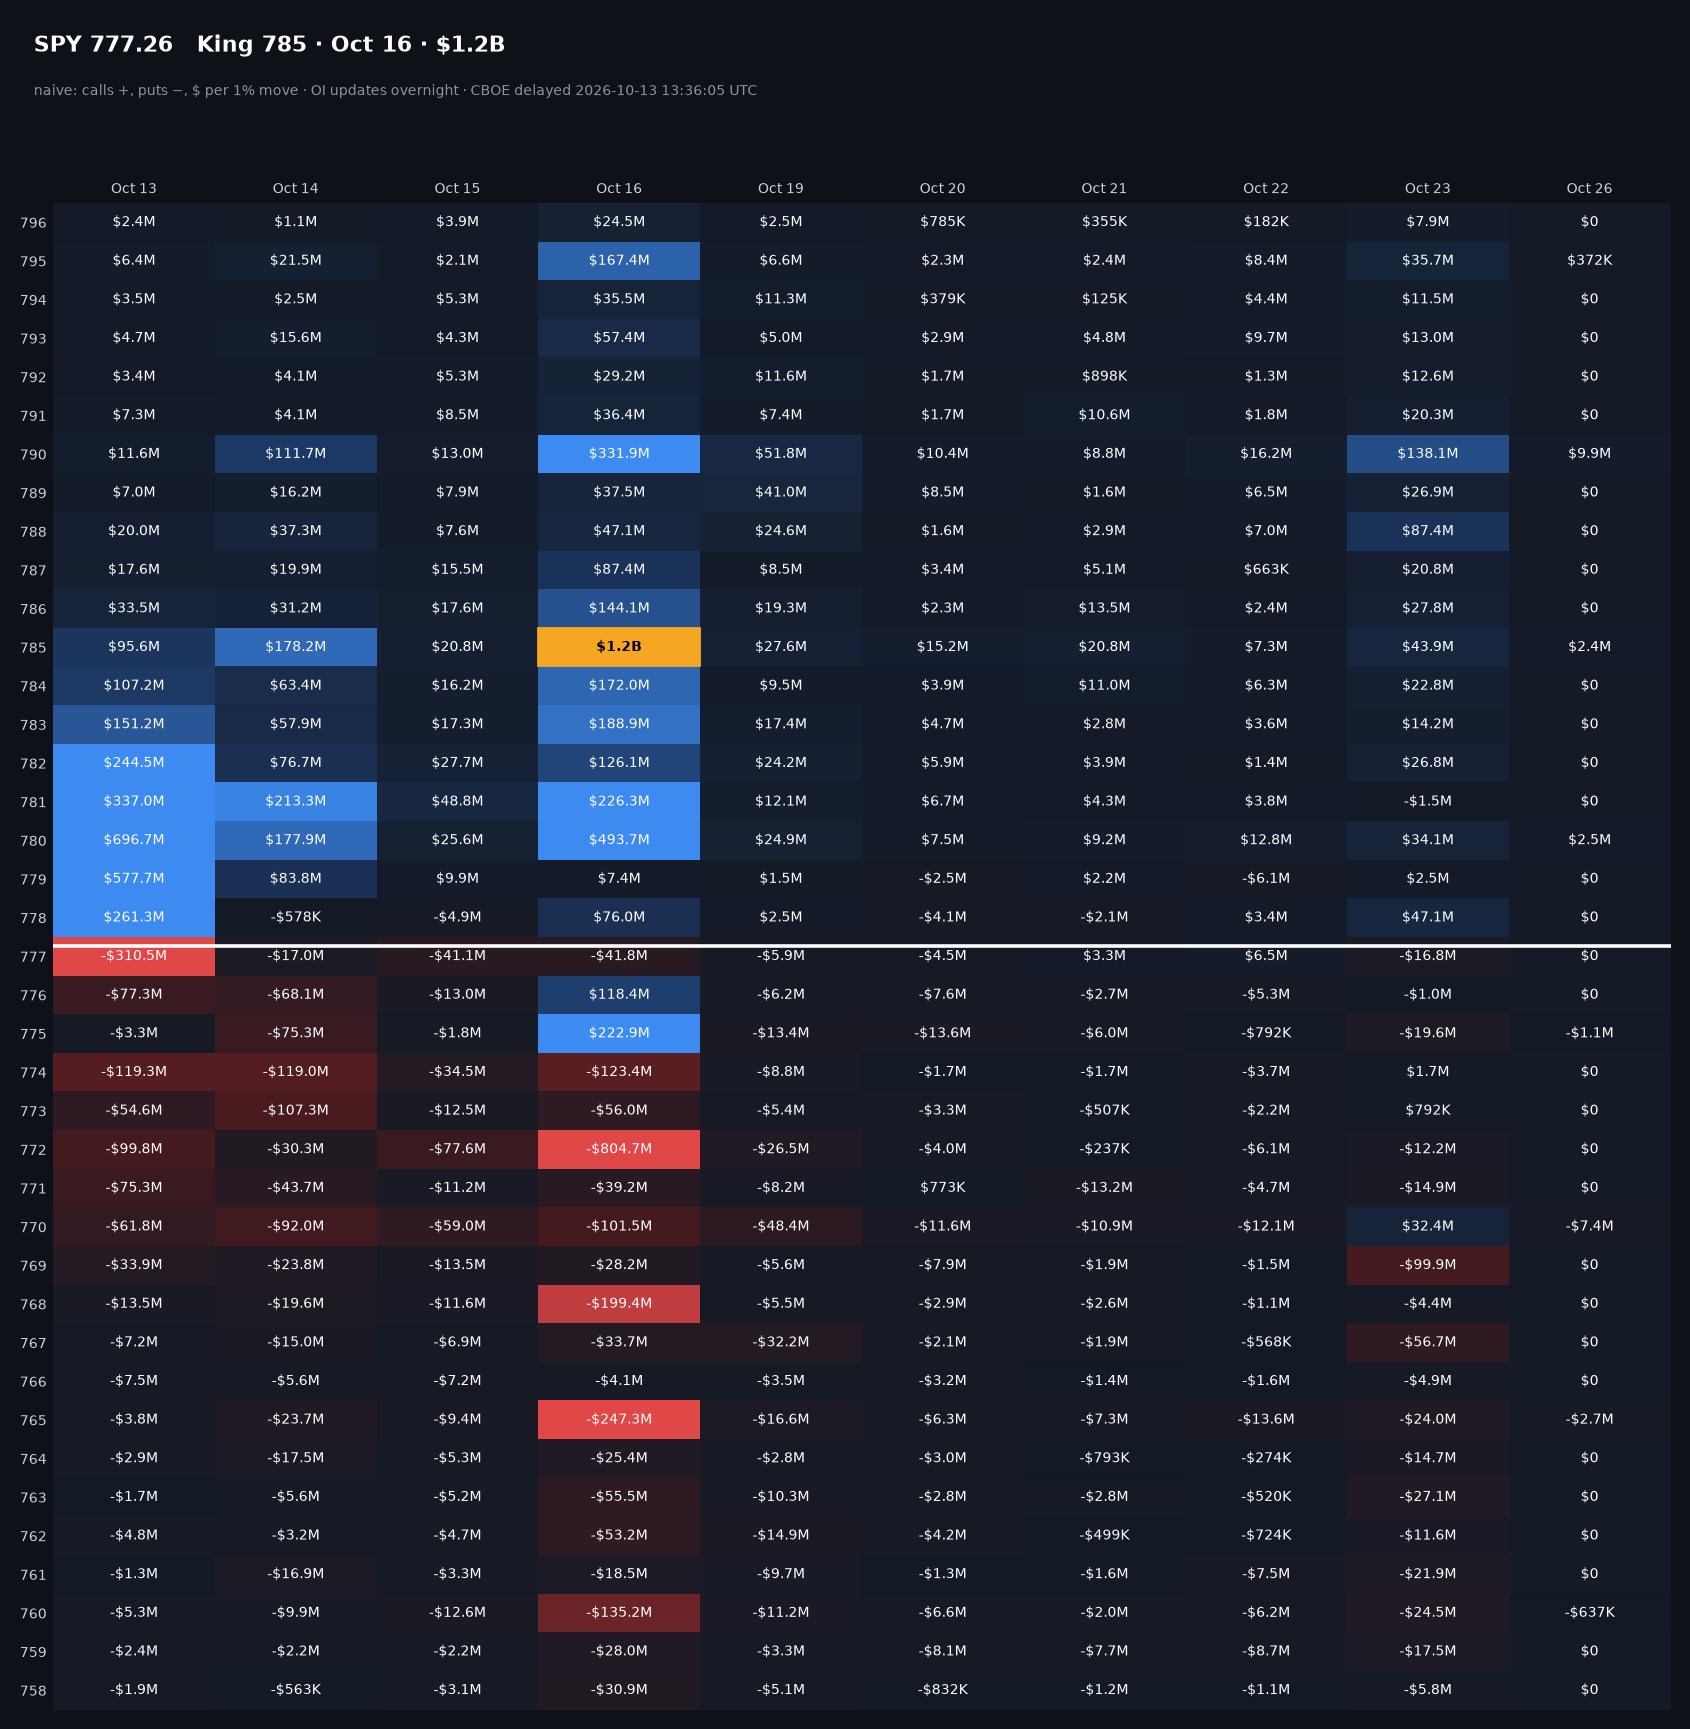
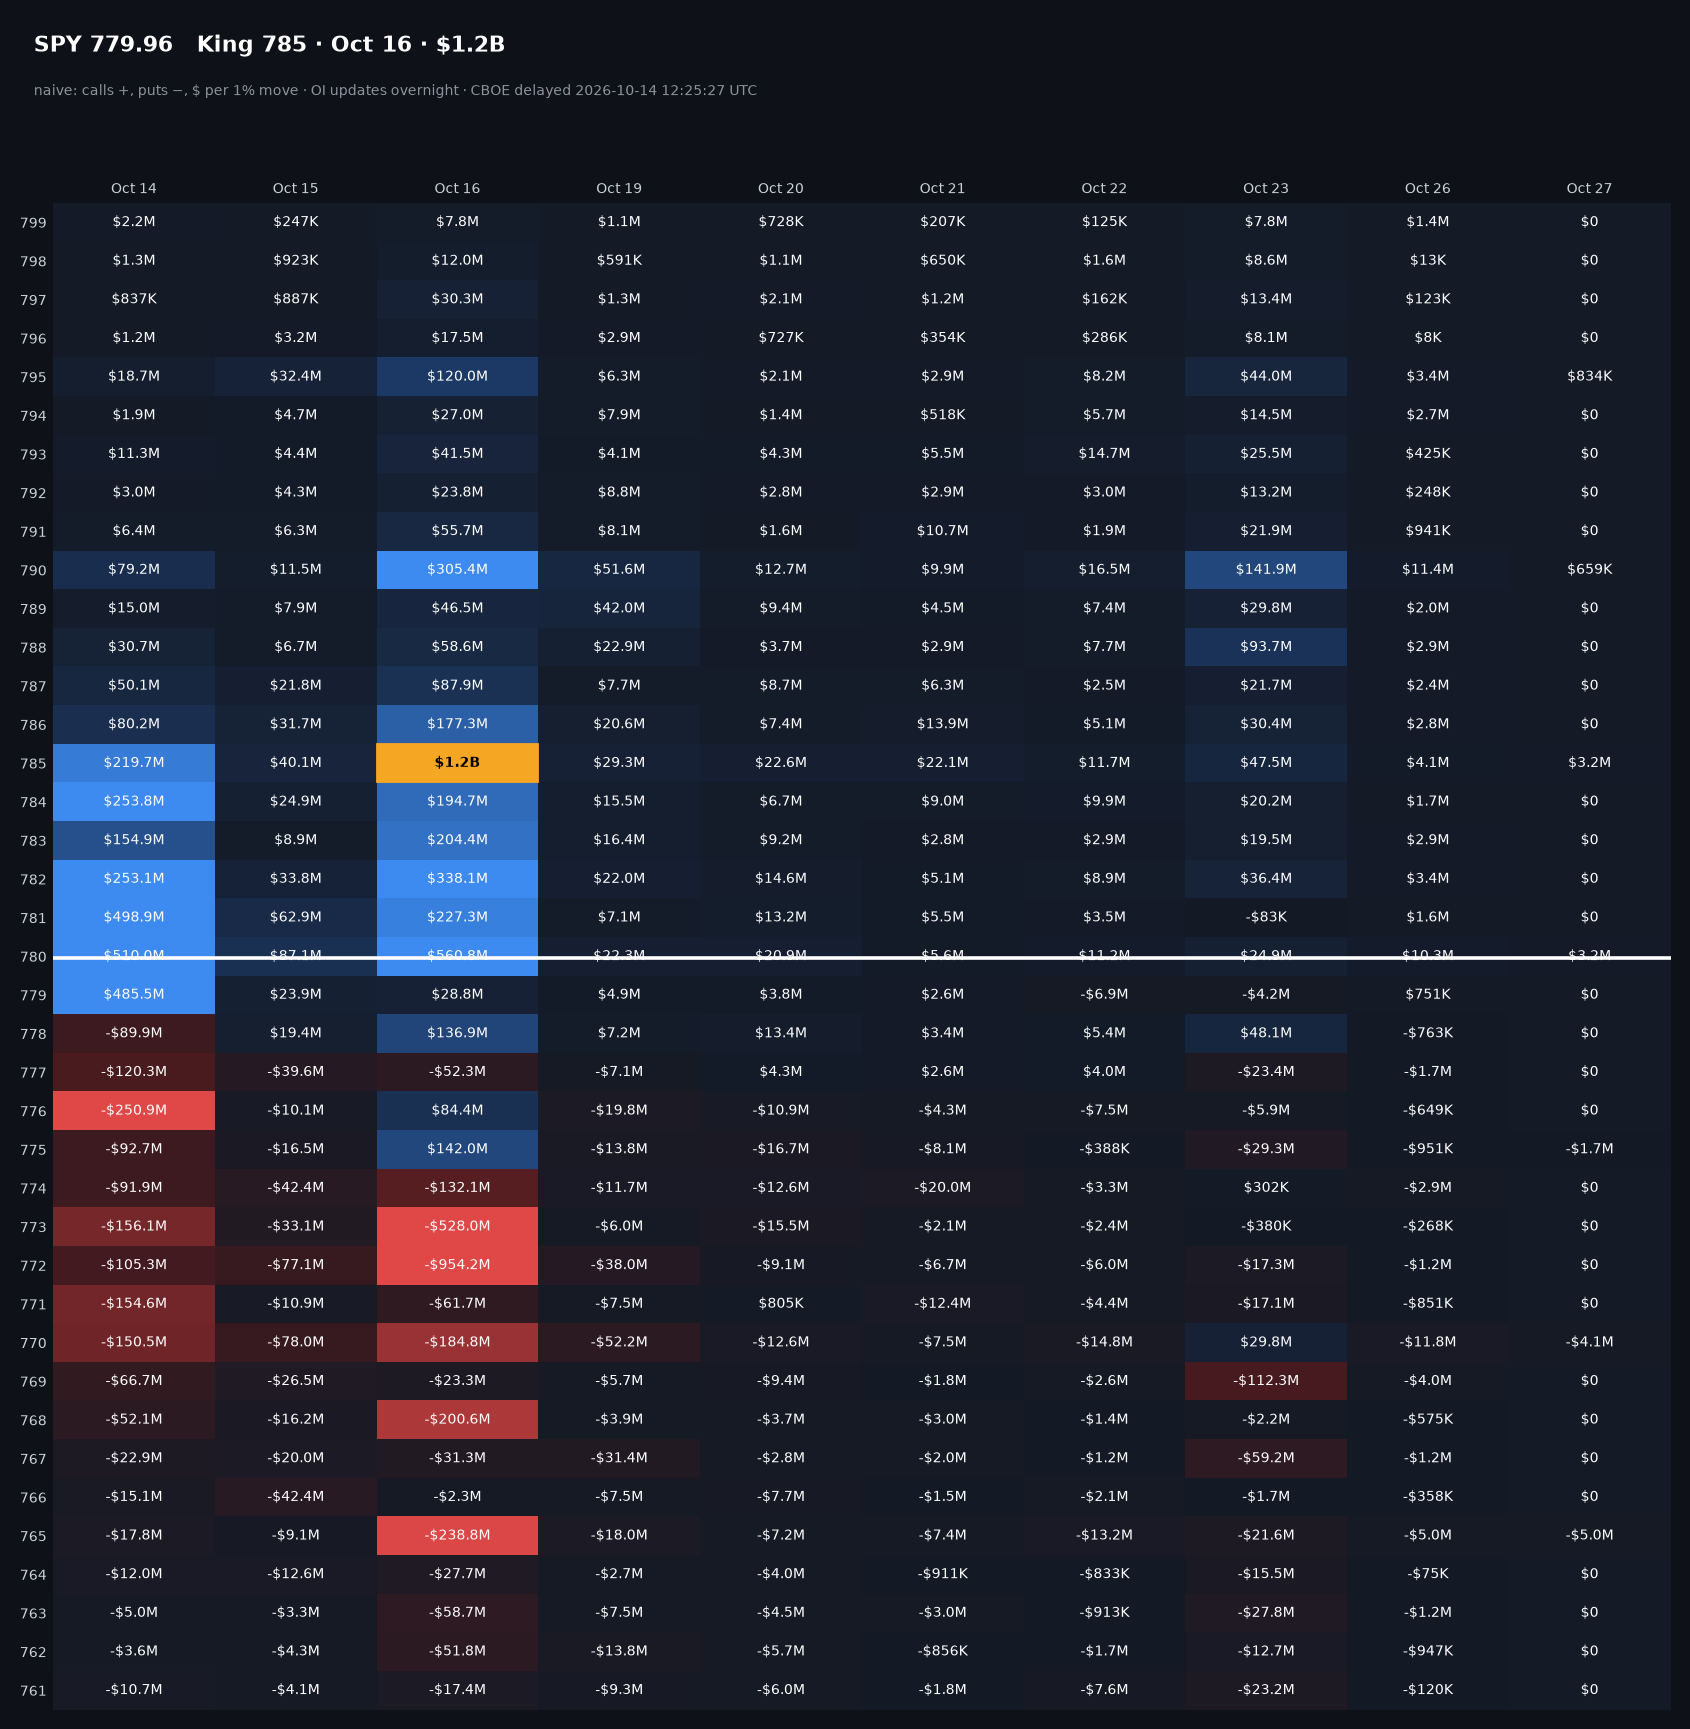
GEX 2026-10-14

diff --git a/index.html b/index.html
@@ -2,9 +2,9 @@
 <title>GEX dashboard</title><style>body{background:#0e1117;color:#c9d1d9;font:14px system-ui,sans-serif;margin:0;padding:12px;max-width:1100px;margin:auto}
 h1{font-size:20px;color:#fff}h3{color:#fff;margin:18px 0 6px}.s{overflow-x:auto}table{border-collapse:collapse;width:100%;font-size:13px}
 td,th{border-bottom:1px solid #222a36;padding:6px;text-align:left;white-space:nowrap}th{color:#8b949e}img{width:100%;border-radius:6px}small{color:#8b949e}</style></head><body>
-<h1>Dealer gamma (GEX) levels — 2026-10-13</h1><small>Run 2026-10-13T13:39:19+00:00 · free CBOE delayed quotes (~15 min) · open interest is prior-day · naive estimate (calls +, puts −). Not advice.</small>
-<h3>Key levels</h3><div class="s"><table><tr><th>Ticker</th><th>Spot</th><th>King (strike · exp · $)</th><th>Flip</th><th>Regime</th><th>Net GEX</th><th>Nearest expiry top +/− strikes</th></tr><tr><td><b>SPY</b></td><td>777.26</td><td>785 · 10-16 · $1.2B</td><td>777.53</td><td>below flip (amplifying)</td><td>$4.2B</td><td>10-13: +780, 779, 781 / −777, 774, 772</td></tr><tr><td><b>QQQ</b></td><td>740.07</td><td>750 · 10-16 · $422.7M</td><td>744.0</td><td>below flip (amplifying)</td><td>-$1.5B</td><td>10-13: +748, 752, 751 / −740, 745, 737</td></tr><tr><td><b>IWM</b></td><td>278.09</td><td>275 · 10-16 · -$428.3M</td><td>282.0</td><td>below flip (amplifying)</td><td>-$2.0B</td><td>10-13: +279, 281, 280 / −277, 276, 275</td></tr><tr><td><b>SMH</b></td><td>578.90</td><td>590 · 10-23 · -$46.4M</td><td>565.04</td><td>above flip (dampening)</td><td>-$205.7M</td><td>10-13: +590 / −585, 570, 580</td></tr><tr><td><b>XLK</b></td><td>194.22</td><td>195 · 10-16 · $14.4M</td><td>194.2</td><td>above flip (dampening)</td><td>-$1.4M</td><td>10-16: +195, 198, 190 / −192, 196, 194</td></tr><tr><td><b>XLE</b></td><td>66.51</td><td>67 · 10-16 · $19.8M</td><td>–</td><td>–</td><td>$79.7M</td><td>10-16: +67, 65, 66.5 / −–</td></tr><tr><td><b>XLF</b></td><td>55.45</td><td>54.5 · 10-16 · -$48.4M</td><td>55.65</td><td>below flip (amplifying)</td><td>-$26.2M</td><td>10-13: +55, 55.5, 56 / −54.5</td></tr></table></div>
+<h1>Dealer gamma (GEX) levels — 2026-10-14</h1><small>Run 2026-10-14T12:29:25+00:00 · free CBOE delayed quotes (~15 min) · open interest is prior-day · naive estimate (calls +, puts −). Not advice.</small>
+<h3>Key levels</h3><div class="s"><table><tr><th>Ticker</th><th>Spot</th><th>King (strike · exp · $)</th><th>Flip</th><th>Regime</th><th>Net GEX</th><th>Nearest expiry top +/− strikes</th></tr><tr><td><b>SPY</b></td><td>779.96</td><td>785 · 10-16 · $1.2B</td><td>777.62</td><td>above flip (dampening)</td><td>$3.3B</td><td>10-14: +780, 781, 779 / −776, 773, 771</td></tr><tr><td><b>QQQ</b></td><td>743.56</td><td>760 · 10-16 · $483.1M</td><td>746.69</td><td>below flip (amplifying)</td><td>-$65.3M</td><td>10-14: +750, 751, 748 / −735, 740, 739</td></tr><tr><td><b>IWM</b></td><td>277.18</td><td>275 · 10-16 · -$451.4M</td><td>281.46</td><td>below flip (amplifying)</td><td>-$2.2B</td><td>10-14: +280, 279, 278 / −275, 276, 274</td></tr><tr><td><b>SMH</b></td><td>583.20</td><td>590 · 10-23 · -$41.7M</td><td>–</td><td>–</td><td>-$187.7M</td><td>10-14: +595, 590 / −580, 575, 585</td></tr><tr><td><b>XLK</b></td><td>195.86</td><td>195 · 10-16 · $15.1M</td><td>195.82</td><td>above flip (dampening)</td><td>$17.8M</td><td>10-16: +195, 200, 198 / −192, 194, 196</td></tr><tr><td><b>XLE</b></td><td>67.59</td><td>68 · 10-21 · $10.9M</td><td>–</td><td>–</td><td>$66.7M</td><td>10-16: +67, 68, 66.5 / −–</td></tr><tr><td><b>XLF</b></td><td>54.80</td><td>54.5 · 10-16 · -$62.3M</td><td>54.8</td><td>below flip (amplifying)</td><td>-$69.4M</td><td>10-14: +55, 55.5, 56 / −54.5, 53.5</td></tr></table></div>
 
 <h3>SPY</h3><a href="img/SPY_gex.png"><img src="img/SPY_gex.png" alt="SPY GEX heatmap"></a><h3>QQQ</h3><a href="img/QQQ_gex.png"><img src="img/QQQ_gex.png" alt="QQQ GEX heatmap"></a><h3>IWM</h3><a href="img/IWM_gex.png"><img src="img/IWM_gex.png" alt="IWM GEX heatmap"></a><h3>SMH</h3><a href="img/SMH_gex.png"><img src="img/SMH_gex.png" alt="SMH GEX heatmap"></a><h3>XLK</h3><a href="img/XLK_gex.png"><img src="img/XLK_gex.png" alt="XLK GEX heatmap"></a><h3>XLE</h3><a href="img/XLE_gex.png"><img src="img/XLE_gex.png" alt="XLE GEX heatmap"></a><h3>XLF</h3><a href="img/XLF_gex.png"><img src="img/XLF_gex.png" alt="XLF GEX heatmap"></a>
-<h3>History</h3><div class="s"><table><tr><th>Date</th><th>Ticker</th><th>Spot</th><th>King</th><th>Flip</th><th>Prev close</th><th>Prev range</th></tr><tr><td>2026-10-13</td><td>XLK</td><td>194.22</td><td>195.0 (10-16)</td><td>194.2</td><td>196.36</td><td>195.82–198.18</td></tr><tr><td>2026-10-13</td><td>XLF</td><td>55.45</td><td>54.5 (10-16)</td><td>55.65</td><td>55.05</td><td>54.83–55.17</td></tr><tr><td>2026-10-13</td><td>XLE</td><td>66.5114</td><td>67.0 (10-16)</td><td></td><td>66.01</td><td>65.67–66.42</td></tr><tr><td>2026-10-13</td><td>SPY</td><td>777.26</td><td>785.0 (10-16)</td><td>777.53</td><td>778.1</td><td>777.05–779.4</td></tr><tr><td>2026-10-13</td><td>SMH</td><td>578.9</td><td>590.0 (10-23)</td><td>565.04</td><td>590.99</td><td>589.22–598.45</td></tr><tr><td>2026-10-13</td><td>QQQ</td><td>740.07</td><td>750.0 (10-16)</td><td>744.0</td><td>746.04</td><td>744.85–749.79</td></tr><tr><td>2026-10-13</td><td>IWM</td><td>278.0869</td><td>275.0 (10-16)</td><td>282.0</td><td>277.9</td><td>277.79–279.14</td></tr></table></div>
+<h3>History</h3><div class="s"><table><tr><th>Date</th><th>Ticker</th><th>Spot</th><th>King</th><th>Flip</th><th>Prev close</th><th>Prev range</th></tr><tr><td>2026-10-14</td><td>XLK</td><td>195.86</td><td>195.0 (10-16)</td><td>195.82</td><td>196.28</td><td>193.92–196.34</td></tr><tr><td>2026-10-14</td><td>XLF</td><td>54.8</td><td>54.5 (10-16)</td><td>54.8</td><td>54.82</td><td>54.64–55.65</td></tr><tr><td>2026-10-14</td><td>XLE</td><td>67.59</td><td>68.0 (10-21)</td><td></td><td>67.2</td><td>66.29–67.25</td></tr><tr><td>2026-10-14</td><td>SPY</td><td>779.96</td><td>785.0 (10-16)</td><td>777.62</td><td>778.01</td><td>775.95–778.75</td></tr><tr><td>2026-10-14</td><td>SMH</td><td>583.2</td><td>590.0 (10-23)</td><td></td><td>588.12</td><td>574.75–588.68</td></tr><tr><td>2026-10-14</td><td>QQQ</td><td>743.56</td><td>760.0 (10-16)</td><td>746.69</td><td>743.57</td><td>738.83–744.2</td></tr><tr><td>2026-10-14</td><td>IWM</td><td>277.18</td><td>275.0 (10-16)</td><td>281.46</td><td>276.7</td><td>275.47–278.7</td></tr><tr><td>2026-10-13</td><td>XLK</td><td>194.22</td><td>195.0 (10-16)</td><td>194.2</td><td>196.36</td><td>195.82–198.18</td></tr><tr><td>2026-10-13</td><td>XLF</td><td>55.45</td><td>54.5 (10-16)</td><td>55.65</td><td>55.05</td><td>54.83–55.17</td></tr><tr><td>2026-10-13</td><td>XLE</td><td>66.5114</td><td>67.0 (10-16)</td><td></td><td>66.01</td><td>65.67–66.42</td></tr><tr><td>2026-10-13</td><td>SPY</td><td>777.26</td><td>785.0 (10-16)</td><td>777.53</td><td>778.1</td><td>777.05–779.4</td></tr><tr><td>2026-10-13</td><td>SMH</td><td>578.9</td><td>590.0 (10-23)</td><td>565.04</td><td>590.99</td><td>589.22–598.45</td></tr><tr><td>2026-10-13</td><td>QQQ</td><td>740.07</td><td>750.0 (10-16)</td><td>744.0</td><td>746.04</td><td>744.85–749.79</td></tr><tr><td>2026-10-13</td><td>IWM</td><td>278.0869</td><td>275.0 (10-16)</td><td>282.0</td><td>277.9</td><td>277.79–279.14</td></tr></table></div>
 </body></html>
